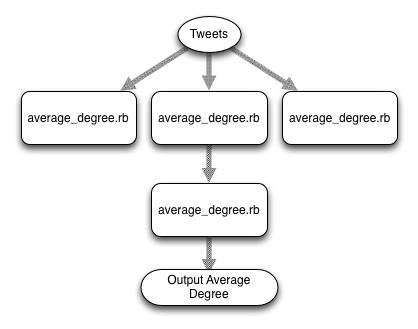
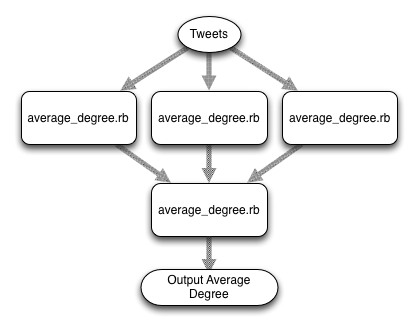
Adding scalability tests

Changed region(s): [[0.5909, 0.4255, 0.7153, 0.5775], [0.2799, 0.4255, 0.4043, 0.5775]]

diff --git a/tests/average_degree_scalability_tests.rb b/tests/average_degree_scalability_tests.rb
@@ -1,0 +1,48 @@
+
+require 'test/unit'
+require 'average_degree'
+
+class TestScalability < Test::Unit::TestCase
+  attr :rolling_graph_1
+  attr :rolling_graph_2
+  attr :rolling_graph_combine
+  attr :rolling_graph_single
+
+  def setup
+    @rolling_graph_1 = RollingHashtagGraph.new
+    @rolling_graph_2 = RollingHashtagGraph.new
+    @rolling_graph_combine = RollingHashtagGraph.new
+    @rolling_graph_single = RollingHashtagGraph.new
+  end
+
+  def teardown
+    @rolling_graph_1 = nil
+    @rolling_graph_2 = nil
+    @rolling_graph_combine = nil
+    @rolling_graph_single = nil
+  end
+
+  def test_avg_degree_scaling
+    @rolling_graph_single.add("Thu Oct 29 17:51:40 +0000 2015", "#a #b #c")
+    @rolling_graph_single.add("Thu Oct 29 17:51:50 +0000 2015", "#a #b")
+    @rolling_graph_single.add("Thu Oct 29 17:52:20 +0000 2015", "#d #c #e")
+    @rolling_graph_single.add("Thu Oct 29 17:51:30 +0000 2015", "#a #d #e")
+    @rolling_graph_single.add("Thu Oct 29 17:52:40 +0000 2015", "#e #f")
+    assert(@rolling_graph_single.get_average_degree == 1.67, "Wrong avg degree")
+
+    @rolling_graph_1.add("Thu Oct 29 17:51:40 +0000 2015", "#a #b #c")
+    @rolling_graph_1.add("Thu Oct 29 17:51:50 +0000 2015", "#a #b")
+    assert(@rolling_graph_1.get_average_degree == 2, "Wrong avg degree")
+
+    @rolling_graph_2.add("Thu Oct 29 17:52:20 +0000 2015", "#d #c #e")
+    @rolling_graph_2.add("Thu Oct 29 17:51:30 +0000 2015", "#a #d #e")
+    @rolling_graph_2.add("Thu Oct 29 17:52:40 +0000 2015", "#e #f")
+    assert(@rolling_graph_2.get_average_degree == 2, "Wrong avg degree")
+
+    @rolling_graph_combine.combine(@rolling_graph_1)
+    assert(@rolling_graph_combine.get_average_degree == 2, "Wrong avg degree")
+
+    @rolling_graph_combine.combine(@rolling_graph_2)
+    assert(@rolling_graph_combine.get_average_degree == 1.67, "Wrong avg degree")
+  end
+end

diff --git a/src/average_degree.rb b/src/average_degree.rb
@@ -89,8 +89,6 @@ class RollingHashtagGraph
       return
     end
 
-    puts "time #{timestamp} combination #{combination}"
-
     # set there is a modification
     @is_change = true
 
@@ -132,7 +130,6 @@ class RollingHashtagGraph
 
   # returns average degree
   def get_average_degree
-
     if !is_change
       return @last_avg
     end
@@ -178,8 +175,22 @@ class RollingHashtagGraph
     end
 
     # concat adj matrices and time graphs
-    @adj_matrix.concat(adj_matrix)
-    time_graph.each { |k, v| @time_graph[k].concat(v) }
+    @adj_matrix.merge!(adj_matrix)
+    time_graph.each do |k, v| 
+      entry = @time_graph.fetch(k, []) 
+      @time_graph[k] = entry.concat(v)
+    end
+
+    #update last entry time
+    @last_entry_time = @time_graph.keys.max
+
+    # purge old entries
+    purge
+
+    # update avr store
+    @is_change = true
+    @last_avg = get_average_degree
+    @is_change = false
   end
 
 end
